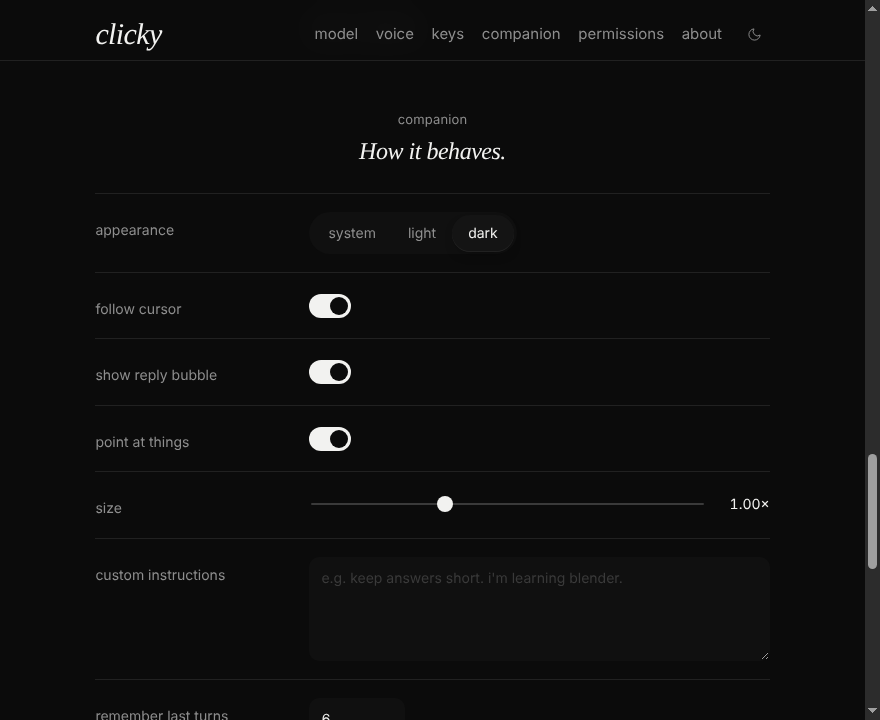
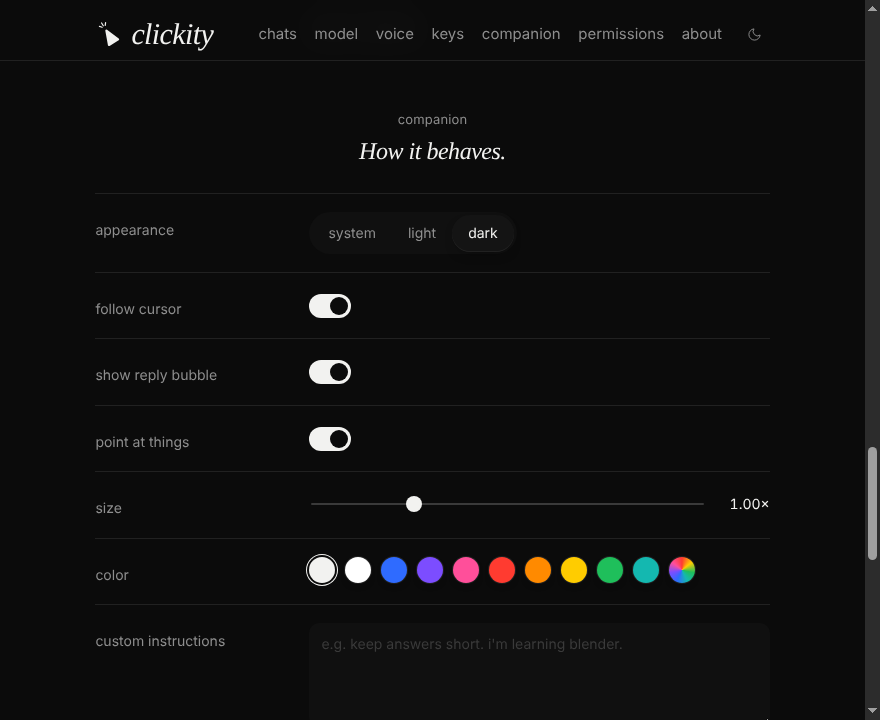
README: refresh screenshots with the Clickity branding and show the chats window

diff --git a/README.md b/README.md
@@ -73,6 +73,12 @@ clickity behaves like any app: clicking its icon opens settings, the companion k
 - **behavior** — follow the cursor or park in a corner, show or hide the bubble, pointing on or off, custom instructions.
 
 <p align="center">
+  <img src="docs/screenshots/chats.png" width="720" alt="the clickity chats window: saved chats, a dark glass composer and a model picker">
+</p>
+
+every conversation — spoken, typed next to the cursor, or written in the chats window — is saved. open **chats** from the menu-bar icon or settings to search, rename, continue or delete them.
+
+<p align="center">
   <img src="docs/screenshots/dark-settings.png" width="560" alt="clickity settings in dark mode">
 </p>
 
